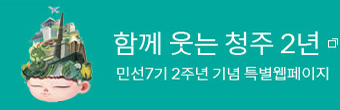
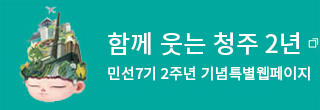
re

Changed region(s): [[0.3125, 0.2727, 0.9375, 0.5182], [0.3125, 0.6, 0.9688, 0.7364]]

diff --git a/css/main.css b/css/main.css
@@ -41,7 +41,7 @@
   border-bottom: 1px solid #fff;
 }
 #top-pop .top-pop__desc {
-  color: #ddd !important;
+  color: #fff !important;
   font-size: 13px;
   font-weight: 400;
 }

diff --git a/index.html b/index.html
@@ -35,7 +35,7 @@
         ㅇ 민원 및 솥통 섹션
         ㅇ 문화 섹션
         ㅇ 고객 퀵 메뉴 섹션
-      
+        
       푸터
     -->
     
